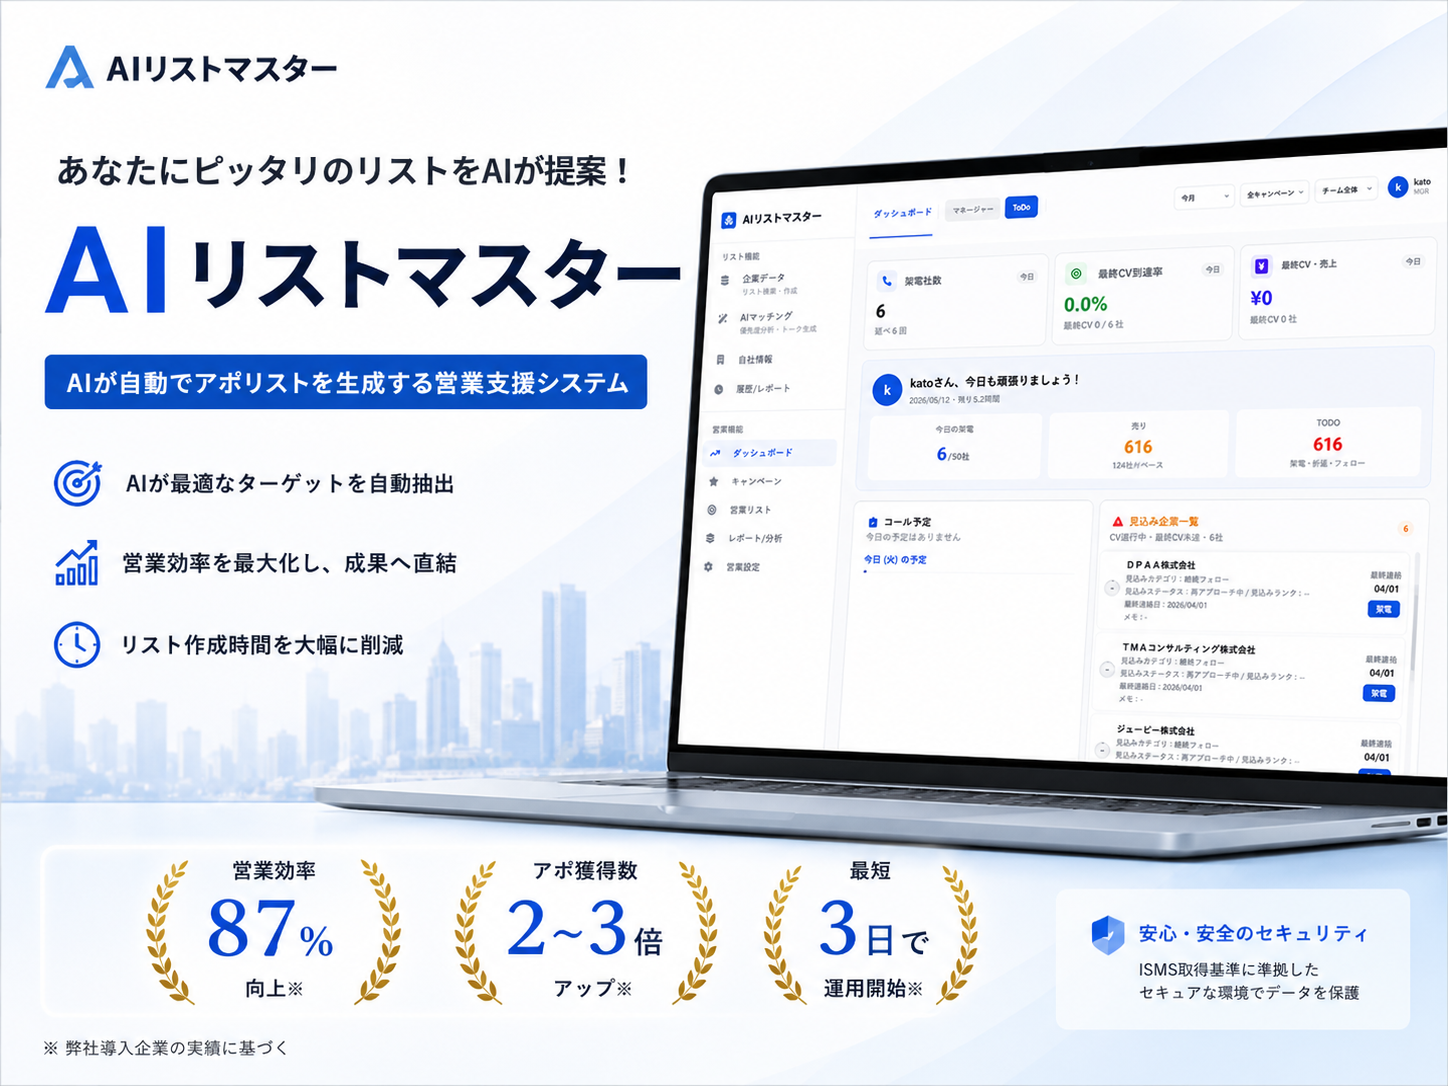
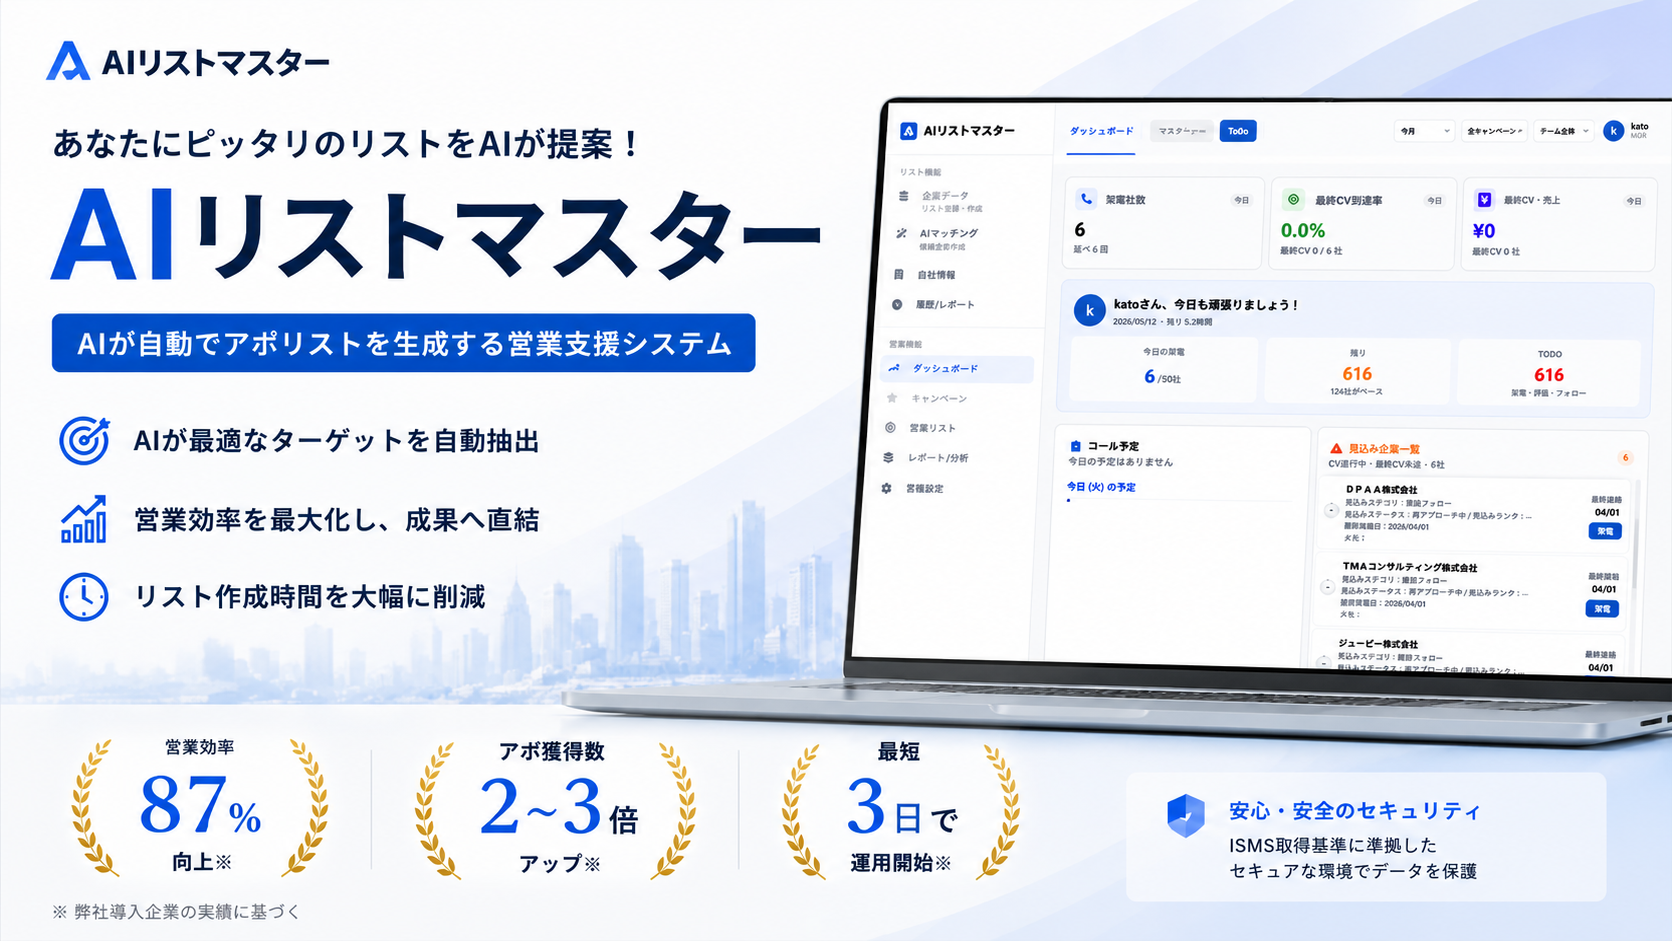
auto: update 2026-05-12 18:17:33

diff --git a/13【AIマスター系資料作成】/AIリストマスター_営業資料_v2.html b/13【AIマスター系資料作成】/AIリストマスター_営業資料_v2.html
@@ -131,48 +131,61 @@ body.em .et.light:focus{ background:rgba(13,27,74,.85)!important; }
 <div id="scaler">
 
 <!-- ══════════════════════════════════════════
-  S1: 表紙  960×540 (16:9 パワポサイズ)
-  元画像4:3→containで720×540に収まる。左右に120pxずつ余白。
-  x_new = 120 + x_old×0.75 / y_new = y_old×0.75
+  S1: 表紙  960×540 (16:9) — 新画像 1672×941
+  スケール: 960/1672 = 0.574
+  x_new = x_orig × 0.574 / y_new = y_orig × 0.574
 ══════════════════════════════════════════ -->
 <div class="slide" data-w="960" data-h="540" data-img="img_v2/AIリストマスター表紙.png">
   <img class="bg" src="img_v2/AIリストマスター表紙.png" alt="">
 
   <!-- ロゴテキスト -->
-  <div class="et dark" style="top:20px;left:171px;font-size:12px;font-weight:700;padding:2px 4px;">AIリストマスター</div>
+  <div class="et dark" style="top:20px;left:62px;font-size:11px;font-weight:700;padding:2px 4px;">AIリストマスター</div>
 
   <!-- キャッチコピー -->
-  <div class="et dark" style="top:74px;left:146px;font-size:11px;font-weight:500;padding:2px 4px;">あなたにピッタリのリストをAIが提案！</div>
+  <div class="et dark" style="top:62px;left:22px;font-size:12px;font-weight:500;padding:2px 4px;">あなたにピッタリのリストをAIが提案！</div>
 
   <!-- メインタイトル -->
-  <div class="et dark" style="top:89px;left:146px;font-size:47px;font-weight:900;padding:2px 6px;letter-spacing:-.02em;">AI リストマスター</div>
+  <div class="et dark" style="top:82px;left:22px;font-size:55px;font-weight:900;padding:2px 6px;letter-spacing:-.02em;">AI リストマスター</div>
 
   <!-- バッジテキスト -->
-  <div class="et dark" style="top:185px;left:149px;font-size:10px;font-weight:700;padding:7px 15px;border-radius:5px;background:transparent;">AIが自動でアポリストを生成する営業支援システム</div>
+  <div class="et dark" style="top:158px;left:22px;font-size:11px;font-weight:700;padding:7px 16px;border-radius:5px;background:transparent;">AIが自動でアポリストを生成する営業支援システム</div>
 
   <!-- 特徴1 -->
-  <div class="et dark" style="top:239px;left:193px;font-size:11px;font-weight:700;padding:2px 4px;">AIが最適なターゲットを自動抽出</div>
+  <div class="et dark" style="top:202px;left:52px;font-size:13px;font-weight:700;padding:2px 4px;">AIが最適なターゲットを自動抽出</div>
 
   <!-- 特徴2 -->
-  <div class="et dark" style="top:281px;left:193px;font-size:11px;font-weight:700;padding:2px 4px;">営業効率を最大化し、成果へ直結</div>
+  <div class="et dark" style="top:247px;left:52px;font-size:13px;font-weight:700;padding:2px 4px;">営業効率を最大化し、成果へ直結</div>
 
   <!-- 特徴3 -->
-  <div class="et dark" style="top:324px;left:193px;font-size:11px;font-weight:700;padding:2px 4px;">リスト作成時間を大幅に削減</div>
+  <div class="et dark" style="top:292px;left:52px;font-size:13px;font-weight:700;padding:2px 4px;">リスト作成時間を大幅に削減</div>
+
+  <!-- 下部バー ラベル -->
+  <div class="et dark" style="top:372px;left:86px;font-size:9px;font-weight:500;padding:1px 3px;">営業効率</div>
+  <div class="et dark" style="top:372px;left:220px;font-size:9px;font-weight:500;padding:1px 3px;">アポ獲得数</div>
 
   <!-- 統計1: 87% -->
-  <div class="et dark" style="top:440px;left:246px;font-size:32px;font-weight:900;color:transparent;padding:2px 4px;">87%</div>
+  <div class="et dark" style="top:393px;left:72px;font-size:40px;font-weight:900;color:transparent;padding:2px 4px;">87%</div>
 
   <!-- 統計2: 2〜3倍 -->
-  <div class="et dark" style="top:440px;left:403px;font-size:32px;font-weight:900;color:transparent;padding:2px 4px;">2〜3倍</div>
+  <div class="et dark" style="top:393px;left:206px;font-size:40px;font-weight:900;color:transparent;padding:2px 4px;">2〜3倍</div>
 
-  <!-- 統計3: 3日で -->
-  <div class="et dark" style="top:440px;left:563px;font-size:32px;font-weight:900;color:transparent;padding:2px 4px;">3日で</div>
+  <!-- 統計3: 最短 + 3日で -->
+  <div class="et dark" style="top:378px;left:345px;font-size:12px;font-weight:700;padding:1px 3px;">最短</div>
+  <div class="et dark" style="top:393px;left:336px;font-size:40px;font-weight:900;color:transparent;padding:2px 4px;">3日で</div>
 
-  <!-- セキュリティテキスト -->
-  <div class="et dark wrap" style="top:464px;right:18px;font-size:8px;width:160px;line-height:1.7;padding:2px 4px;">ISMS取得基準に準拠した&#10;セキュアな環境でデータを保護</div>
+  <!-- 下部バー サブラベル -->
+  <div class="et dark" style="top:445px;left:86px;font-size:9px;padding:1px 3px;">向上※</div>
+  <div class="et dark" style="top:445px;left:220px;font-size:9px;padding:1px 3px;">アップ※</div>
+  <div class="et dark" style="top:445px;left:345px;font-size:9px;padding:1px 3px;">運用開始※</div>
+
+  <!-- セキュリティタイトル -->
+  <div class="et dark" style="top:382px;left:626px;font-size:12px;font-weight:700;padding:2px 4px;">安心・安全のセキュリティ</div>
+
+  <!-- セキュリティ本文 -->
+  <div class="et dark wrap" style="top:402px;left:626px;font-size:9px;line-height:1.7;width:180px;padding:2px 4px;">ISMS取得基準に準拠した&#10;セキュアな環境でデータを保護</div>
 
   <!-- 脚注 -->
-  <div class="et dark" style="bottom:5px;left:146px;font-size:8px;padding:1px 3px;">※ 弊社導入企業の実績に基づく</div>
+  <div class="et dark" style="bottom:6px;left:12px;font-size:8px;padding:1px 3px;">※ 弊社導入企業の実績に基づく</div>
 </div>
 
 <!-- ══════════════════════════════════════════
